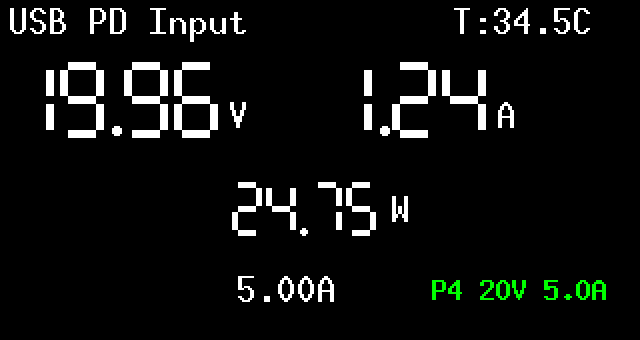
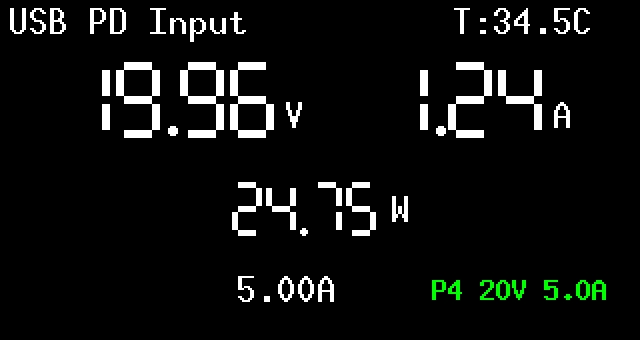
Center the USB-PD input screen heroes to match the channel detail layout
Also: the GUI's ARB upload now stops any active waveform on either channel
first (the engine is exclusive), and surfaces the deferred ARB:START verdict
honestly - success only on the device's confirmation, otherwise the actual
error - instead of an unconditional 'Started'.

Changed region(s): [[0.0625, 0.1765, 0.4688, 0.4118], [0.5625, 0.1765, 0.9062, 0.4118], [0.375, 0.1765, 0.4375, 0.2059]]

diff --git a/GUI/BenchVolt-PD.py b/GUI/BenchVolt-PD.py
@@ -1173,6 +1173,14 @@ class BenchVoltUI(ctk.CTk):
             # 1. STOP BACKGROUND POLLING (CUT TRAFFIC)
             self.pause_polling = True
             time.sleep(0.4)  # Wait briefly for current query to finish
+
+            # The AWG engine is exclusive: uploads are refused while any
+            # waveform (built-in or ARB, either channel) is active, so stop
+            # everything first. Each stop replies OK even when idle.
+            for ch in (4, 5):
+                for cmd in (f"SOUR:WAVE:CH{ch}:STOP", f"SOUR:WAVE:CH{ch}:ARB:STOP"):
+                    self.remote.ser.write(f"{cmd}\n".encode('ascii'))
+                    time.sleep(0.4)
             self.remote.ser.reset_input_buffer()  # Discard old data left in buffer
 
             CHUNK_SIZE = 8
@@ -1221,15 +1229,31 @@ class BenchVoltUI(ctk.CTk):
             start_cmd = f"SOUR:WAVE:CH{channel_num}:ARB:START {total_count},{m_val},{r_val}\n"
             self.remote.ser.write(start_cmd.encode('ascii'))
 
-            final_resp = self.remote.ser.read_until(b"\n").decode('ascii', errors='ignore').strip()
-            print(f"SUCCESS: {final_resp}\n")
+            # The START ack is deferred until the output is verified running;
+            # a failed start reports ERR (e.g. ERR:HARDWARE) the same way.
+            final_resp = ""
+            deadline = time.time() + 6.0
+            while time.time() < deadline:
+                line = self.remote.ser.read_until(b"\n").decode('ascii', errors='ignore').strip()
+                if "OK:" in line and "STARTED" in line:
+                    final_resp = line
+                    break
+                if "ERR" in line:
+                    final_resp = line
+                    break
+            print(f"ARB START result: {final_resp!r}\n")
 
-            # Show success on UI
             if hasattr(self, 'arb_status_labels') and channel_num in self.arb_status_labels:
-                self.arb_status_labels[channel_num].configure(
-                    text=f"✔ Upload Complete! Started.",
-                    text_color="#2ecc71"
-                )
+                if final_resp.startswith("OK"):
+                    self.arb_status_labels[channel_num].configure(
+                        text="✔ Upload Complete! Running.",
+                        text_color="#2ecc71"
+                    )
+                else:
+                    self.arb_status_labels[channel_num].configure(
+                        text=f"❌ Start failed: {final_resp or 'no response'}",
+                        text_color="#e74c3c"
+                    )
                 self.update()
 
         except Exception as e:
@@ -1238,7 +1262,11 @@ class BenchVoltUI(ctk.CTk):
                 self.arb_status_labels[channel_num].configure(text="❌ Critical Error", text_color="#e74c3c")
                 self.update()
         finally:
-            # 2. RESTART BACKGROUND POLLING WHEN DONE
+            # 2. RESTORE THE SHORT TIMEOUT AND RESTART BACKGROUND POLLING
+            try:
+                self.remote.ser.timeout = 0.1
+            except Exception:
+                pass
             self.pause_polling = False
 
     def load_csv_and_fill_box():

diff --git a/Firmware/Rust/benchvolt-pd/src/view.rs b/Firmware/Rust/benchvolt-pd/src/view.rs
@@ -588,12 +588,14 @@ where
         self.draw_detail_status(projection.status, projection.focus == ControlFocus::Output);
     }
 
+    // Same centered ensemble as the channel detail screens (see
+    // draw_detail_voltage).
     fn draw_sink_voltage(&mut self, projection: SinkProjection) {
-        self.draw_hero(projection.voltage_centivolts.map(u32::from), 5, "V");
+        self.draw_hero(projection.voltage_centivolts.map(u32::from), 33, "V");
     }
 
     fn draw_sink_current(&mut self, projection: SinkProjection) {
-        self.draw_hero(projection.current_centiamps.map(u32::from), 164, "A");
+        self.draw_hero(projection.current_centiamps.map(u32::from), 192, "A");
     }
 
     fn draw_sink_power(&mut self, projection: SinkProjection) {
